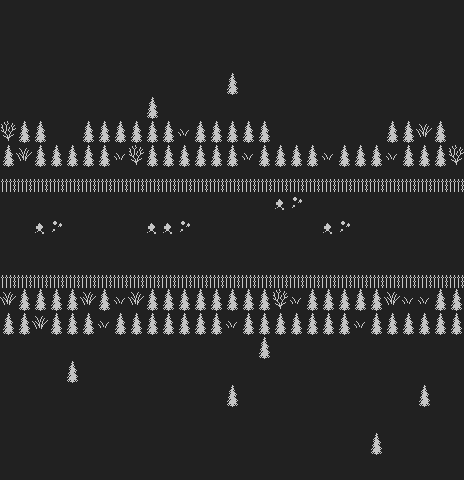
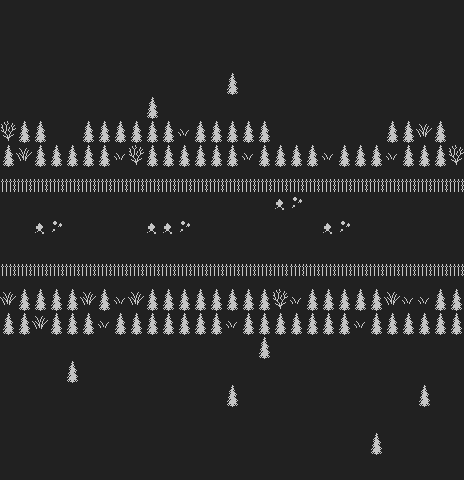
we did it, the rock now respawns by being repositioned in its starting position rather than being destroyed and recreated each time, implementation is purely test code and be polished

Changed region(s): [[0.0, 0.5312, 1.0, 0.5938]]

diff --git a/main.c b/main.c
@@ -1771,6 +1771,9 @@ int main(int argc, char *argv[])
                         case SDLK_w:
                         {
                             Orientation.up = true;
+                            if (boulder_has_reached_end)
+                                boulder_has_reached_end = false;
+
                             if (is_title_screen)
                             {
                                 option_index--;
@@ -1819,6 +1822,8 @@ int main(int argc, char *argv[])
                         case SDLK_s:
                         {
                             Orientation.down = true;
+                            if (boulder_has_reached_end)
+                                boulder_has_reached_end = false;
 
                             if (is_title_screen)
                             {
@@ -1867,6 +1872,9 @@ int main(int argc, char *argv[])
                         case SDLK_a:
                         {
                             Orientation.left = true;
+                            if (boulder_has_reached_end)
+                                boulder_has_reached_end = false;
+
                             if (character_creation_screen.is_active && !confirmation.is_active)
                             {
                                 character_creation_screen.index--;
@@ -1981,6 +1989,9 @@ int main(int argc, char *argv[])
                         case SDLK_d:
                         {
                             Orientation.right = true;
+                            if (boulder_has_reached_end)
+                                boulder_has_reached_end = false;
+
                             if (character_creation_screen.is_active && !confirmation.is_active)
                             {
                                 character_creation_screen.index++;
@@ -3712,10 +3723,8 @@ int main(int argc, char *argv[])
                         if (AABB(&boulder_asset.body, &forest_scenario_finish_line.body))
                         {
                             printf("test\n");
-                            boulder_asset.conditions.is_collidable = false;
+                            SetAssetPosition(&boulder_asset, 128 + 16, 240 - 24);
 
-                            SDL_DestroyTexture(boulder_asset.texture);
-                            boulder_asset.texture = NULL;
                             boulder_has_reached_end = true;
                         }
                     }
